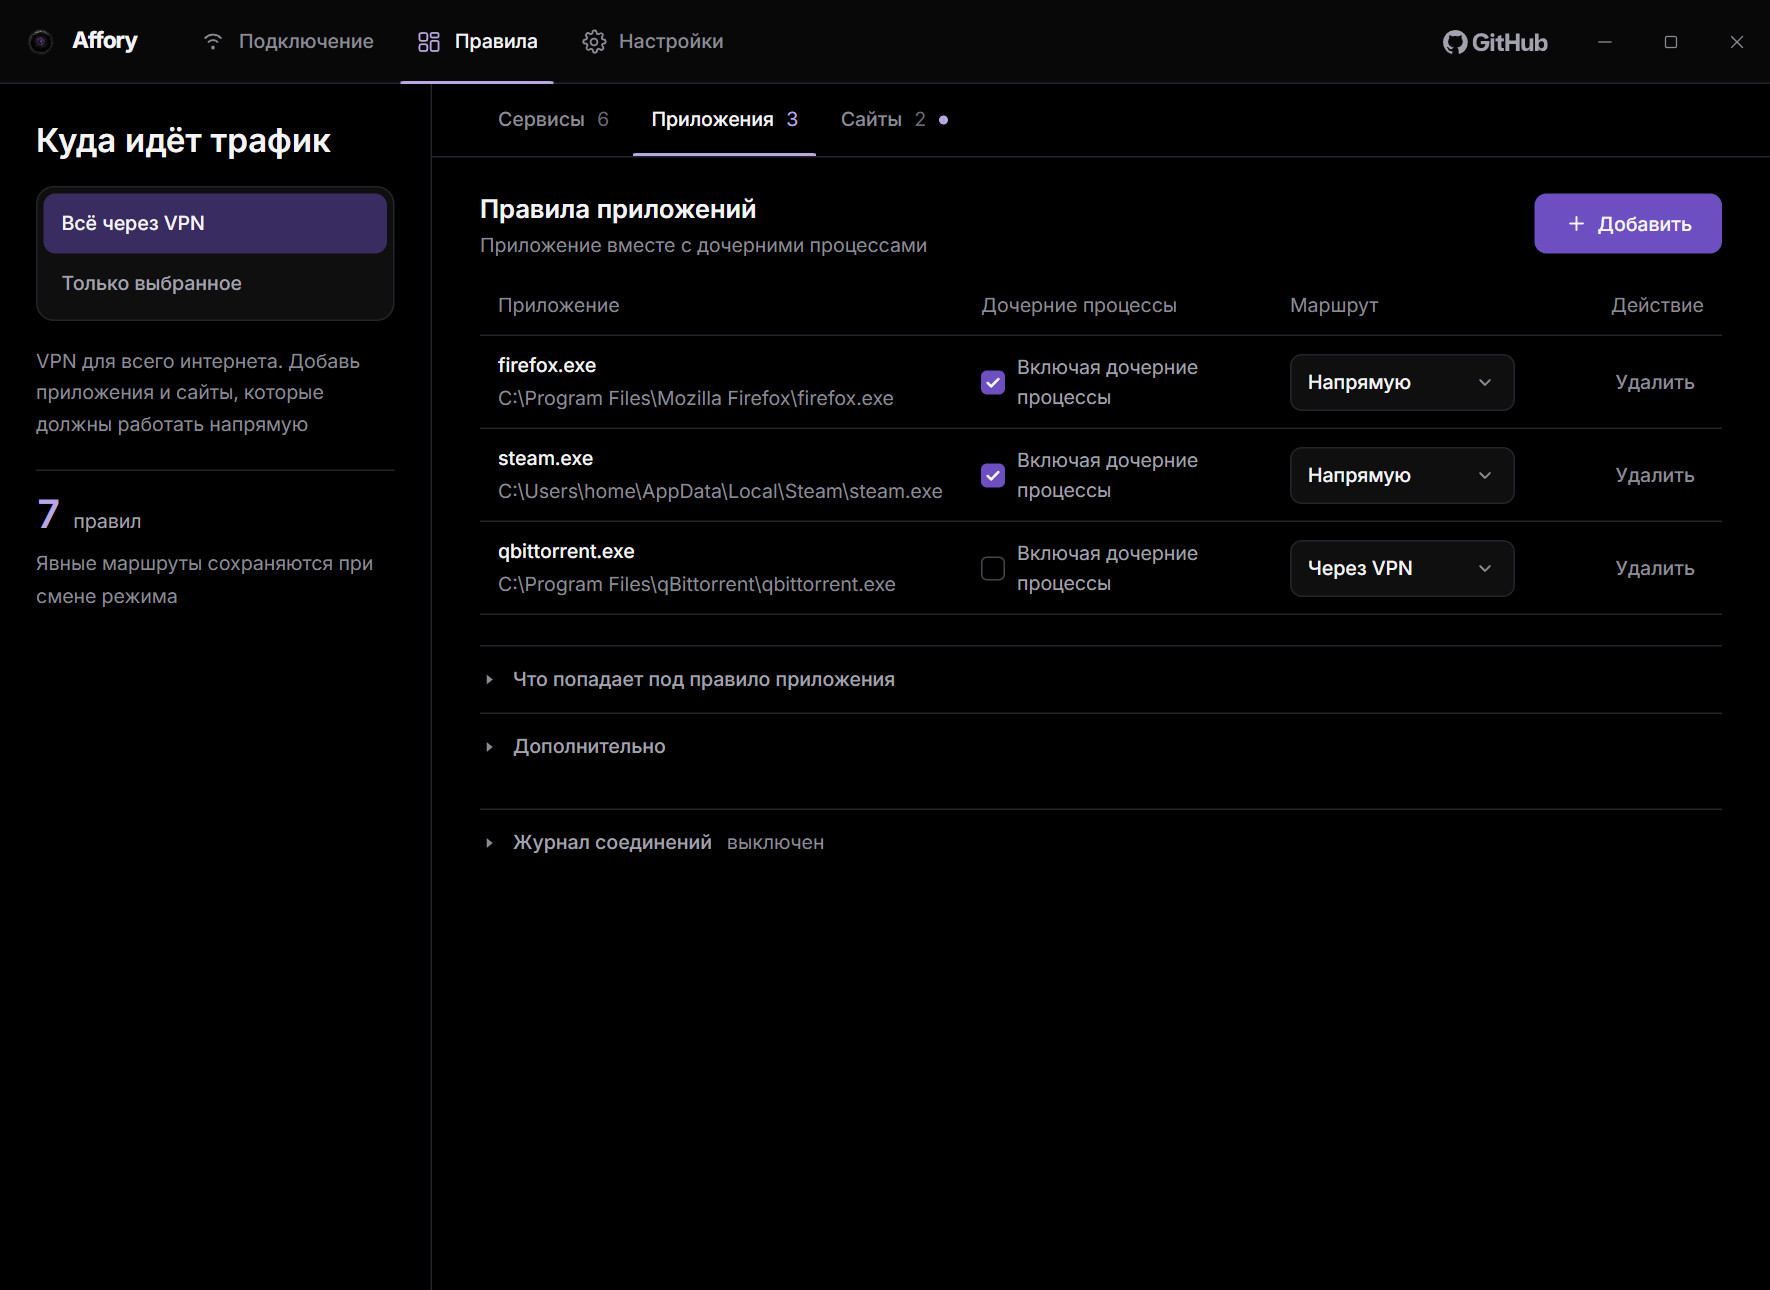
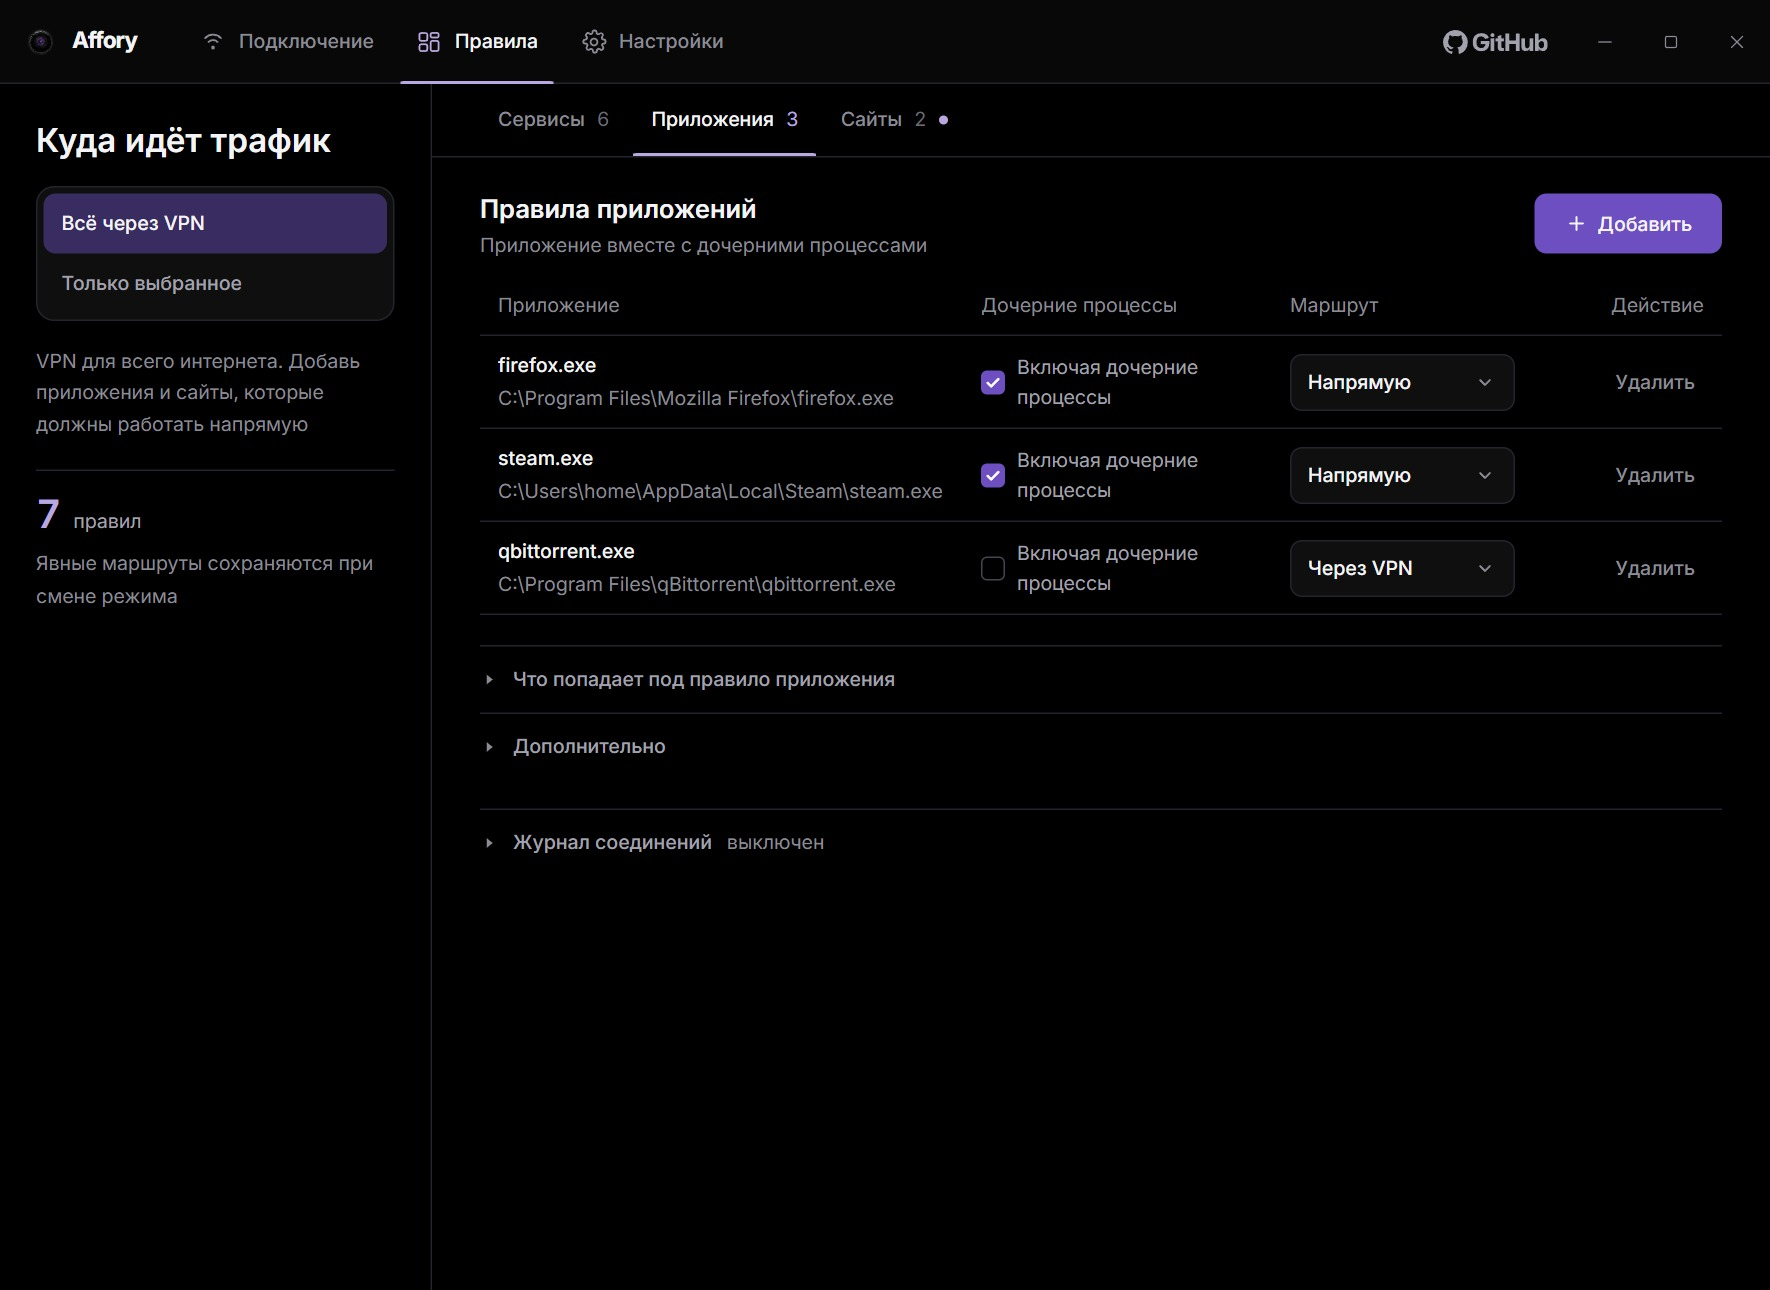
Снимки README пересняты, версия в них берётся из файла VERSIYA
Прежние сделаны 16.09.2026 со сборки 1.2.0, и за четыре выпуска интерфейс ушёл
от них далеко: обновлённый главный экран, справка о протоколах, задержка
отдельной строкой, отказы словами вместо кодов, обновление из архива в
настройках. Снимок, который показывает позапрошлый интерфейс, вводит в
заблуждение ровно тех, кто ещё не поставил программу.

Номер версии на снимке больше не пишется в заглушке числом. Прибитый там 1.2.0
прожил до первого же выпуска и дальше врал молча: заметить это можно было
только глазами на картинке. Конфиг стенда читает файл VERSIYA и подставляет
номер через define.

Снимок правил показывал вкладку сервисов при подписи «Правила приложений».
Теперь съёмка нажимает вкладку «Приложения», и подпись, имя файла и содержимое
сошлись. Вкладка выбирается по роли: подпись лежит в одном узле со счётчиком
правил, и поиск точного текста её не находит.

Съёмка вынесена в snyat-snimki.mjs рядом со стендом: раньше она жила в устной
договорённости и каждый раз собиралась заново, вместе с обеими её граблями -
сбросом прокрутки на экране настроек и размером кадра 1180x860 при масштабе
1.5, который даёт прежние 1770x1290.

В тексте: номер версии убран из шага установки (он устаревал каждый выпуск),
добавлены справка о протоколах, диагностика соединения и установка из
скачанного архива с файлом .sha256 рядом.

diff --git a/cmd/affory-ui/frontend/vite.stend.config.ts b/cmd/affory-ui/frontend/vite.stend.config.ts
@@ -1,14 +1,24 @@
 import { defineConfig } from "vite";
 import react from "@vitejs/plugin-react";
 import tailwindcss from "@tailwindcss/vite";
+import { readFileSync } from "node:fs";
 import { fileURLToPath } from "node:url";
 
 // Конфиг ТОЛЬКО для снимков README. Отличие от рабочего одно: вместо рантайма
 // Wails подставляется заглушка с показательными данными, поэтому окно
 // рисуется тем же кодом, что уезжает в выпуск.
+
+// Номер версии берётся из файла VERSIYA, а не пишется в заглушке числом.
+// Прибитый номер прожил ровно до следующего выпуска: снимки README, сделанные
+// 16.09.2026, показывали 1.2.0 ещё в 1.3.2, и заметить это можно было только
+// глазами на картинке. Снимок, который врёт о версии, хуже отсутствующего.
+const versiya = readFileSync(
+  fileURLToPath(new URL("../../../VERSIYA", import.meta.url)), "utf8").trim();
+
 export default defineConfig({
   server: { host: "127.0.0.1", port: 9245, strictPort: true },
   plugins: [react(), tailwindcss()],
+  define: { __VERSIYA_STENDA__: JSON.stringify(versiya) },
   resolve: {
     alias: {
       "@wailsio/runtime": fileURLToPath(new URL("./src/stend/wails-zaglushka.ts", import.meta.url)),

diff --git a/cmd/affory-ui/frontend/src/stend/wails-zaglushka.ts b/cmd/affory-ui/frontend/src/stend/wails-zaglushka.ts
@@ -21,7 +21,10 @@
 // Три последних в госте не воспроизводятся без нарочной поломки продукта, и
 // именно поэтому экраны отказов не проверял никто.
 
-const VERSIYA = "1.2.0";
+// Подставляется конфигом стенда из файла VERSIYA в корне дерева. Числом здесь
+// он уже стоял и уже соврал: снимки README показывали 1.2.0 в дни 1.3.2.
+declare const __VERSIYA_STENDA__: string;
+const VERSIYA = typeof __VERSIYA_STENDA__ === "string" ? __VERSIYA_STENDA__ : "dev";
 
 function parametr(imya: string, poumolchaniyu: string): string {
   try {

diff --git a/README.md b/README.md
@@ -23,6 +23,8 @@
 - Включать VPN для YouTube, Discord, ChatGPT, Claude и других сервисов одним переключателем.
 - Открывать российские сайты напрямую.
 - Измерять скорость приёма и отдачи. Если сервис замера недоступен, клиент пробует следующий.
+- Проверять задержку до каждого сервера и объяснять, чем отличаются протоколы: справка открывается с экрана подключения.
+- Проверять соединение на утечки и показывать адрес выхода. Диагностика ничего не меняет, только смотрит.
 - Работать в трее, подключаться при запуске и блокировать сеть при обрыве VPN, если включена эта настройка. В трее видно доступное обновление.
 - Вести журнал соединений для разбора проблем со связью. Выключен по умолчанию, включается в разделе «Правила».
 
@@ -38,7 +40,7 @@
 
 Для подключения понадобится ссылка на свой VPN-сервер или подписка от провайдера.
 
-1. Скачай **Affory-1.2.0-setup.exe** из [релизов](https://github.com/zxczxczxczxczxczxc1111/affory/releases/latest) и установи. Windows запросит права администратора.
+1. Скачай установщик `Affory-<версия>-setup.exe` из [релизов](https://github.com/zxczxczxczxczxczxc1111/affory/releases/latest) и установи. Windows запросит права администратора.
 2. Открой Affory, нажми **«Управлять»** и добавь ссылку на сервер или подписку.
 3. Нажми на сферу, чтобы подключиться. Она же выключает VPN. Справа переключается автоматический и ручной выбор сервера.
 
@@ -49,6 +51,8 @@
 ## Что стоит знать
 
 Правила начинают действовать после подключения. Если нужны прямые маршруты, оставь настройку **«Блокировать сеть при обрыве VPN»** выключенной: она запрещает соединения мимо VPN.
+
+Обновления клиент проверяет сам и ставит по кнопке в настройках. Если сервер обновлений недоступен, там же можно выбрать скачанный архив `affory-<версия>.zip` — файл `.sha256` должен лежать рядом, клиент сверяет его перед установкой.
 
 Установщик подписан самоподписанным сертификатом. Windows может показать предупреждение о неизвестном издателе.
 
